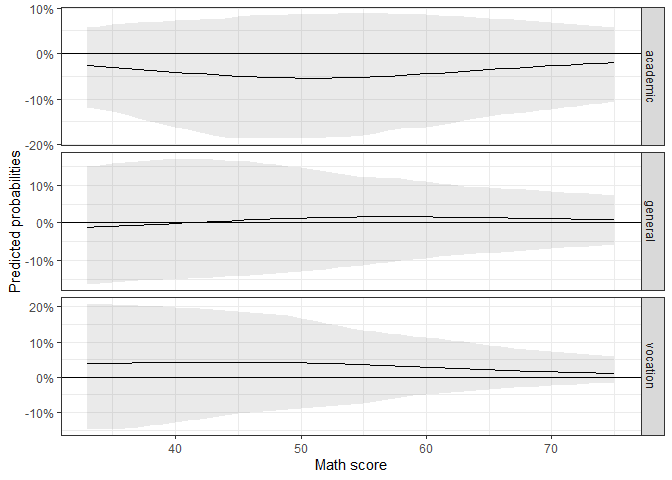
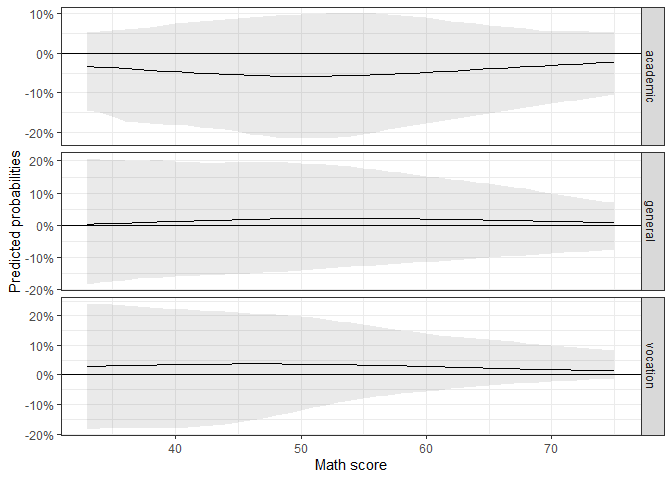
Typos, typos, typos

diff --git a/README.md b/README.md
@@ -31,10 +31,10 @@ These are the important characteristics of the model: \* The multinomial
 logit regression is used to model nominal outcomes. It provides the
 opportunity to assign specific choices a probability based on a set of
 independent variables. \* The model needs an assigned baseline category
-to be indentifiable. All other choices are evaluated in contrast to this
+to be identifiable. All other choices are evaluated in contrast to this
 reference. \* The model returns a set of coefficients for each choice
 category. \* Like all logit models, the multinomial logit model returns
-logg-ods which are difficult to interpret in terms of effect sizes and
+log-odds which are difficult to interpret in terms of effect sizes and
 uncertainties.
 
 This package helps to interpret the model in meaningful ways.
@@ -77,7 +77,7 @@ takes these more detailed steps:
 1.  For all (complete) cases \(n\) predictions are computed based on
     their observed independent values and the \(n\) sets of
     coefficients.
-2.  Next the predicted values of all observationS for each simulation
+2.  Next the predicted values of all observations for each simulation
     are averaged.
 3.  Take the mean and the quantiles of the simulated predicted
     probabilities (same as above).
@@ -96,7 +96,7 @@ example](https://stats.idre.ucla.edu/r/dae/multinomial-logistic-regression/).
 The data is an example dataset, including the career choice of 200 high
 school students and their respective performance indicators. We want to
 predict the probability of the students to choose either an academic,
-general, or vocational programm.
+general, or vocational program.
 
 For this task, we need the following packages:
 
@@ -237,21 +237,21 @@ pred1$plotdata %>% head()
 #> # A tibble: 6 x 5
 #>    math prog2     mean  lower upper
 #>   <dbl> <fct>    <dbl>  <dbl> <dbl>
-#> 1    33 academic 0.157 0.0562 0.309
-#> 2    34 academic 0.169 0.0652 0.322
-#> 3    35 academic 0.182 0.0754 0.335
-#> 4    36 academic 0.195 0.0871 0.349
-#> 5    37 academic 0.210 0.100  0.363
-#> 6    38 academic 0.225 0.115  0.377
+#> 1    33 academic 0.151 0.0435 0.308
+#> 2    34 academic 0.163 0.0513 0.322
+#> 3    35 academic 0.176 0.0604 0.336
+#> 4    36 academic 0.190 0.0709 0.348
+#> 5    37 academic 0.204 0.0830 0.358
+#> 6    38 academic 0.220 0.0969 0.369
 ```
 
 As we can see, it includes the range of the x variable, a mean, a lower,
 and an upper bound of the confidence interval. Concerning the choice
 category, the data is in a long format. This makes it easy to plot it
 with the `ggplot` syntax. The choice category can now easily be used to
-differenciate the lines in the plot by using `linetype = prog2` in the
+differentiate the lines in the plot by using `linetype = prog2` in the
 `aes()`. Another option is to use `facet_wrap()` or `facet_grid()` to
-differenciate the predictions:
+differentiate the predictions:
 
 ``` r
 ggplot(data = pred1$plotdata, aes(x = math, y = mean,
@@ -324,12 +324,12 @@ fdif2$plotdata_fd %>% head()
 #> # A tibble: 6 x 5
 #>    math prog2       mean  lower  upper
 #>   <dbl> <fct>      <dbl>  <dbl>  <dbl>
-#> 1    33 academic -0.0266 -0.119 0.0577
-#> 2    34 academic -0.0285 -0.122 0.0604
-#> 3    35 academic -0.0305 -0.128 0.0630
-#> 4    36 academic -0.0325 -0.133 0.0656
-#> 5    37 academic -0.0345 -0.141 0.0678
-#> 6    38 academic -0.0366 -0.149 0.0693
+#> 1    33 academic -0.0329 -0.144 0.0522
+#> 2    34 academic -0.0349 -0.149 0.0545
+#> 3    35 academic -0.0369 -0.160 0.0569
+#> 4    36 academic -0.0389 -0.171 0.0594
+#> 5    37 academic -0.0409 -0.175 0.0620
+#> 6    38 academic -0.0429 -0.177 0.0661
 ```
 
 Since the function calls the `mnl_pred_ova()` function internally, it
@@ -392,7 +392,7 @@ distributions and therefore provide meaningful confidence intervals.
 scenario. `mnl_fd_ova()` can be used to predict probabilities for two
 scenarios and their first differences.
 
-## Acknowledgement
+## Acknowledgment
 
 My code is inspired by the method courses in the [Political Science
 master’s program at the University of

diff --git a/cran-comments.md b/cran-comments.md
@@ -2,7 +2,7 @@
 
 * Windows, R 3.6.1
 * OS Catalina 10.15, R 3.6.1
-* ubuntu 16.04 (on travis-ci), R 3.6.1
+* ubuntu 16.04 (on travis-ci), release & devel
 
 
 ## R CMD check results
